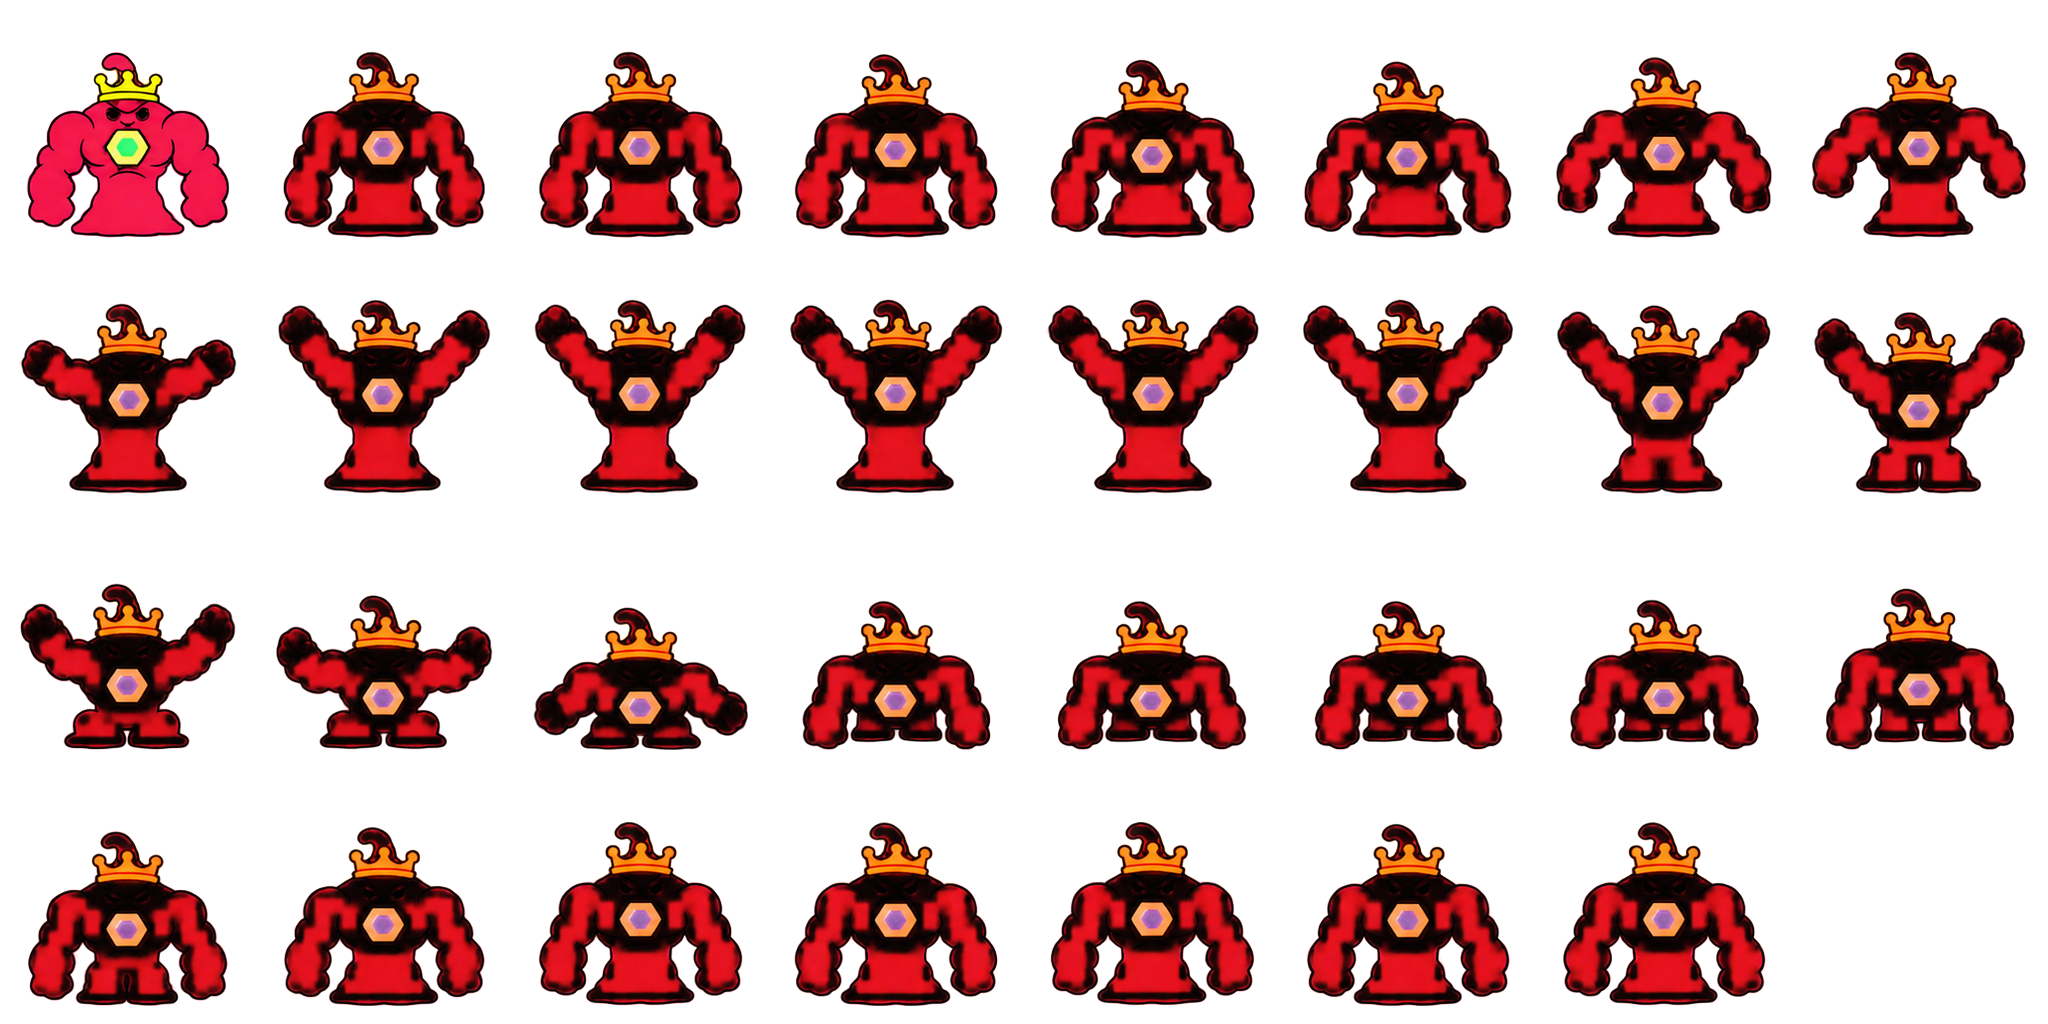
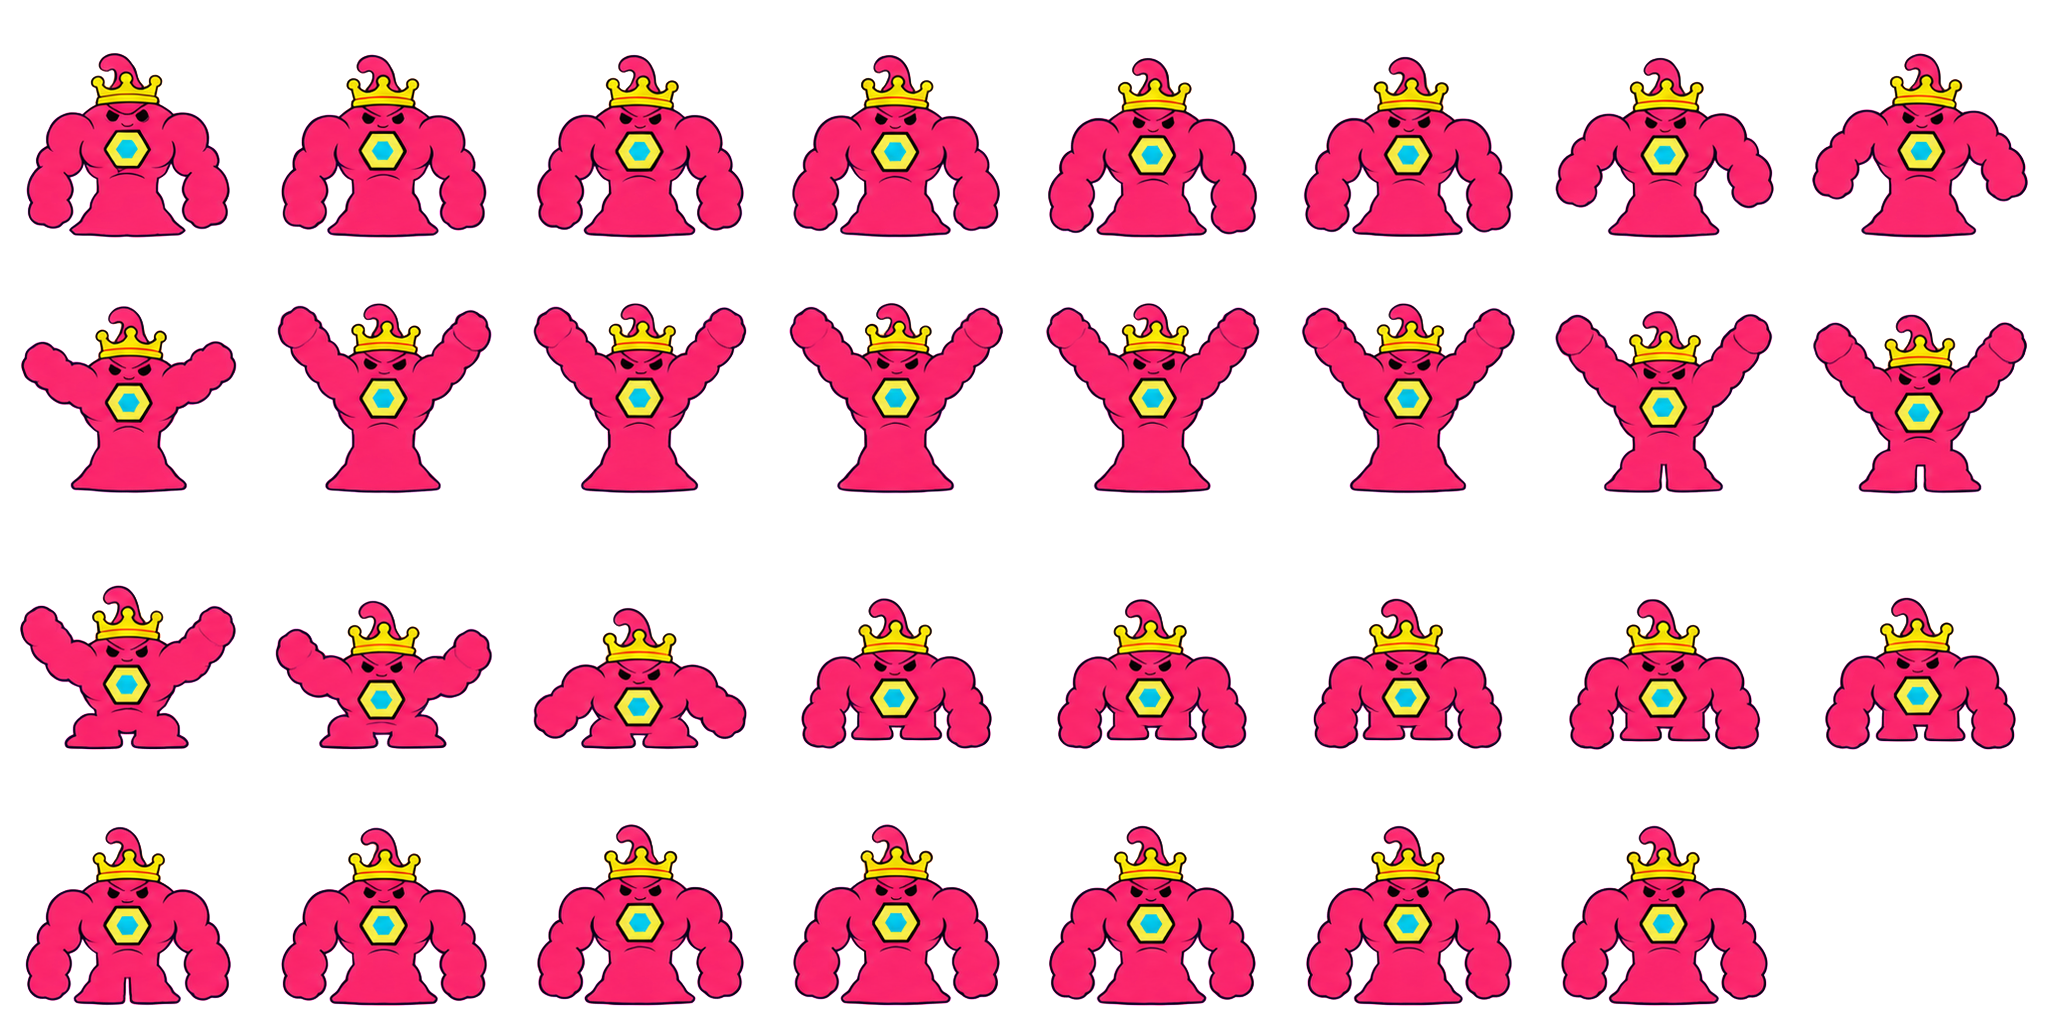
fix(assets): restore consistent boss sprite colors
Replace baked black shading in the Overmind run and attack sheets with the approved flat palette, retain reproducible repair sources, and play all 31 corrected frames.

Validate sprite colors, transparency, and cell margins; all 172 tests, formatting, the production build, and both in-game animation loops pass.

diff --git a/tests/overmind-sprites.test.ts b/tests/overmind-sprites.test.ts
@@ -1,0 +1,51 @@
+import test from "node:test";
+import assert from "node:assert/strict";
+import sharp from "sharp";
+
+for (const motion of ["run", "attack"]) {
+  test(`Overmind ${motion} frames retain flat colors, transparency, and safe cell margins`, async () => {
+    const { data, info } = await sharp(
+      `src/assets/characters/enemies/overmind/runtime/overmind-${motion}.webp`,
+    )
+      .ensureAlpha()
+      .raw()
+      .toBuffer({ resolveWithObject: true });
+    assert.equal(info.width, 2048);
+    assert.equal(info.height, 1024);
+    for (let frame = 0; frame < 32; frame++) {
+      let opaque = 0;
+      let dark = 0;
+      let visible = 0;
+      for (let y = 0; y < 256; y++) {
+        for (let x = 0; x < 256; x++) {
+          const offset =
+            ((Math.floor(frame / 8) * 256 + y) * info.width +
+              (frame % 8) * 256 +
+              x) *
+            4;
+          if (data[offset + 3] >= 16) {
+            visible++;
+            assert.ok(
+              x >= 18 && x < 238 && y >= 18 && y < 238,
+              `frame ${frame} clips its safety margin`,
+            );
+          }
+          if (data[offset + 3] <= 200) continue;
+          opaque++;
+          if (Math.max(data[offset], data[offset + 1], data[offset + 2]) < 65)
+            dark++;
+        }
+      }
+      if (frame === 31) {
+        assert.equal(visible, 0, "unused final cell must stay transparent");
+      } else {
+        assert.ok(opaque > 5000, `frame ${frame} is missing its body`);
+        // Corrected outlines/eyes occupy 10–14%; damaged poses were 35–53% black.
+        assert.ok(
+          dark / opaque < 0.2,
+          `frame ${frame} has excessive black shading (${Math.round((100 * dark) / opaque)}%)`,
+        );
+      }
+    }
+  });
+}

diff --git a/src/combat.ts b/src/combat.ts
@@ -261,8 +261,7 @@ class MarsCombatScene extends Phaser.Scene {
       this.anims.create({
         key: animationKey,
         frames: this.anims.generateFrameNumbers(animationKey, {
-          // Imagine bakes a dark transition into the Overmind's first frame.
-          start: key.startsWith("overmind-") ? 1 : 0,
+          start: 0,
           end: ENEMY_SHEET_FRAME_COUNT - 1,
         }),
         frameRate: ENEMY_SHEET_FPS,

diff --git a/src/build-version.ts b/src/build-version.ts
@@ -1,2 +1,2 @@
 // Generated by scripts/build-version.mjs.
-export const BUILD_VERSION = "a9b3efb5cfdea581";
+export const BUILD_VERSION = "c72443a7fa8ca503";

diff --git a/src/assets/README.md b/src/assets/README.md
@@ -22,6 +22,8 @@ Run `node scripts/prepare-game-assets.mjs` to regenerate item/UI exports and `ru
 
 Run `node scripts/prepare-enemy-sprites.mjs` to rebuild the 256px lossless enemy runtime sheets from the retained Corridor Key masters. Full-frame repair sources under `assets/sorceress/enemies/sprites/repairs/` replace generated frames whose silhouettes originally left the camera. The preparation pass gives every frame a fixed scale, stable ground line, transparent-background cleanup, and an 18px safety inset so motion cannot bleed or clip across sprite cells.
 
+The Overmind uses `overmind-run-flat-color.png` and `overmind-attack-flat-color.png` from that repairs folder. These color-corrected sheets retain the 31-pose run/attack layouts and restore the selected character's flat reddish-magenta body, yellow crown, and cyan reactor center throughout. They replace the broad black shading baked into the older full-frame sheets; all 31 frames, including frame zero, are playable. The earlier sheets remain as source references.
+
 Run `python3 scripts/generate-music-assets.py` to regenerate the three music loops. The composer is deterministic and requires only Python 3 plus ffmpeg.
 
 Run `node scripts/prepare-sfx-assets.mjs` to trim, level-match and export the
